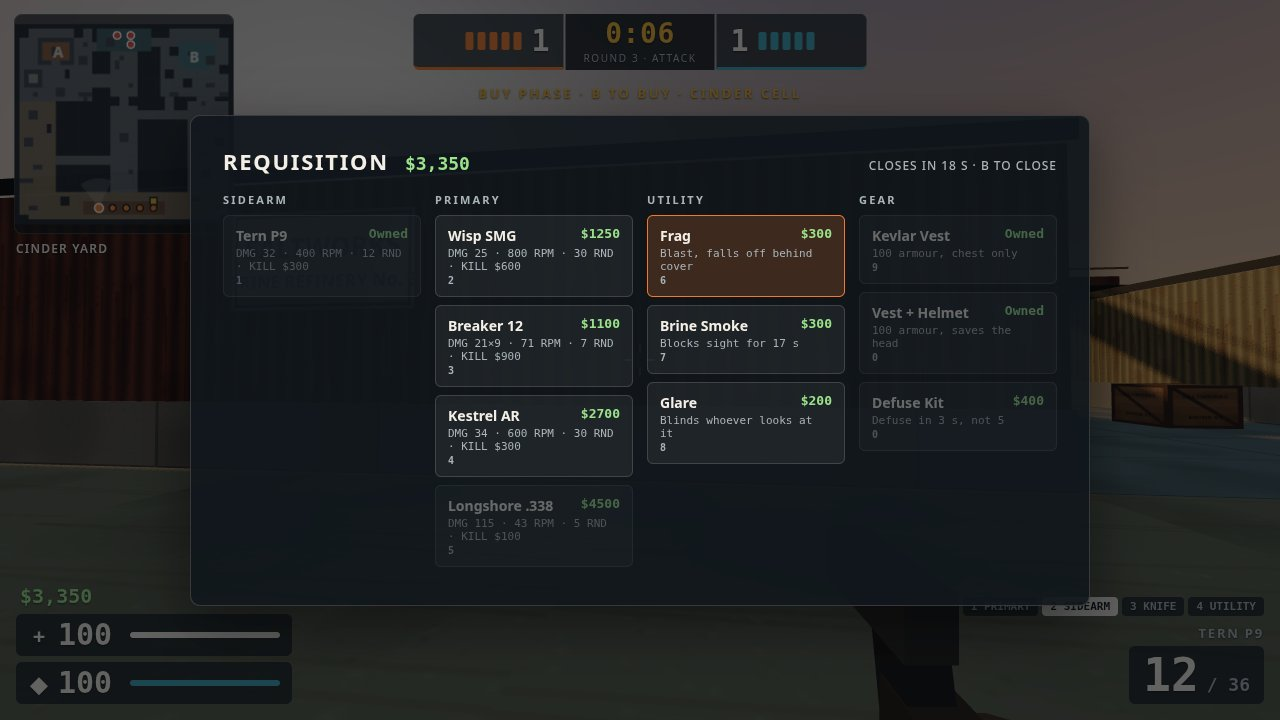
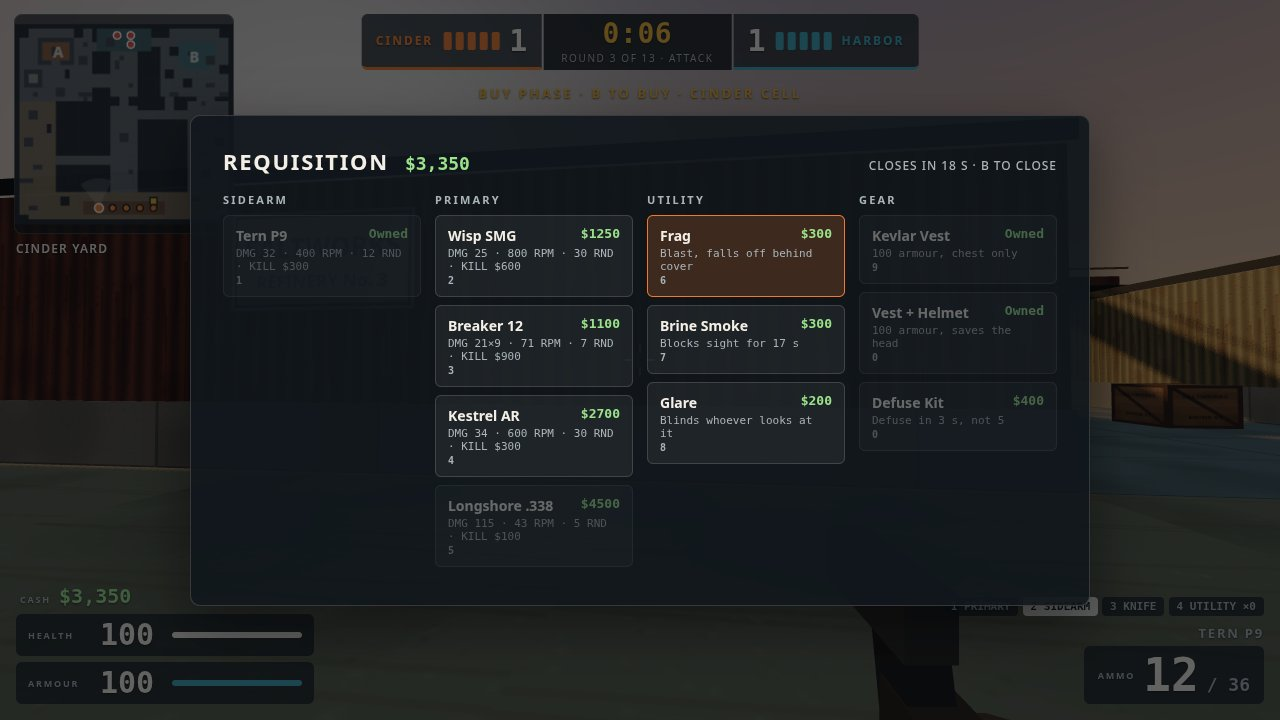
Restage the cover shot with a squadmate's smoke at the mid gate
Refresh all four screenshots with the labelled HUD.

diff --git a/README.md b/README.md
@@ -107,9 +107,8 @@ seed replays a match exactly. Hot paths reuse vectors, hit records, pools and ty
 | `render.js` | Camera, two-pass draw (world, then view model) |
 | `world.js` / `textures.js` / `scenery.js` | Map meshes and props / canvas materials / sun, sky, horizon |
 | `soldier.js` / `viewmodel.js` / `effects.js` | Bot bodies / first-person weapon / pooled effects |
-| `hud.js` / `minimap.js` / `screens.js` | HUD / radar / title, buy menu, scoreboard, summary |
+| `hud.js` / `minimap.js` / `screens.js` | HUD / radar / title and settings, buy menu, scoreboard, summary |
 | `audio.js` | Synthesised positional sound |
-| `settings.js` | Preferences in localStorage |
 | `shots.js` | Screenshot staging, loaded only with `?shot=` |
 
 ## Screenshots
